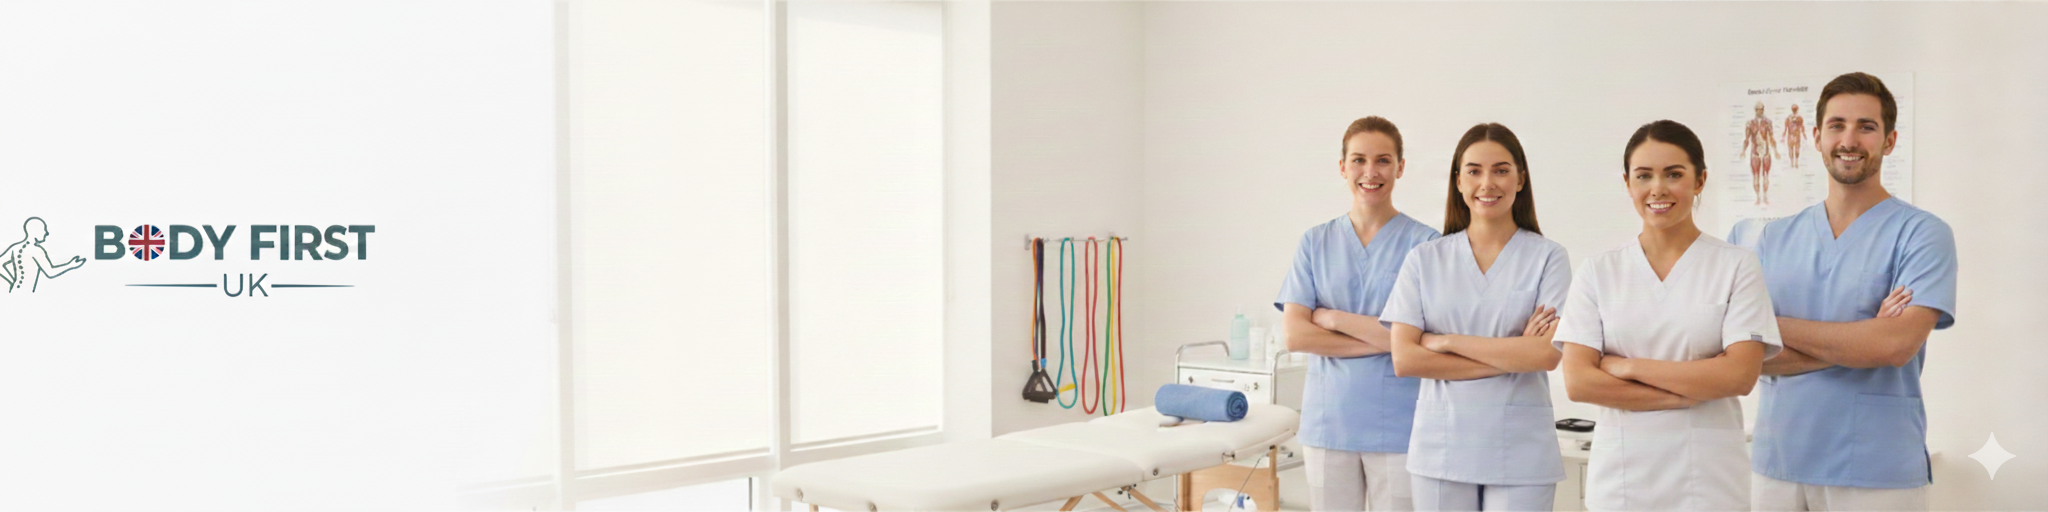
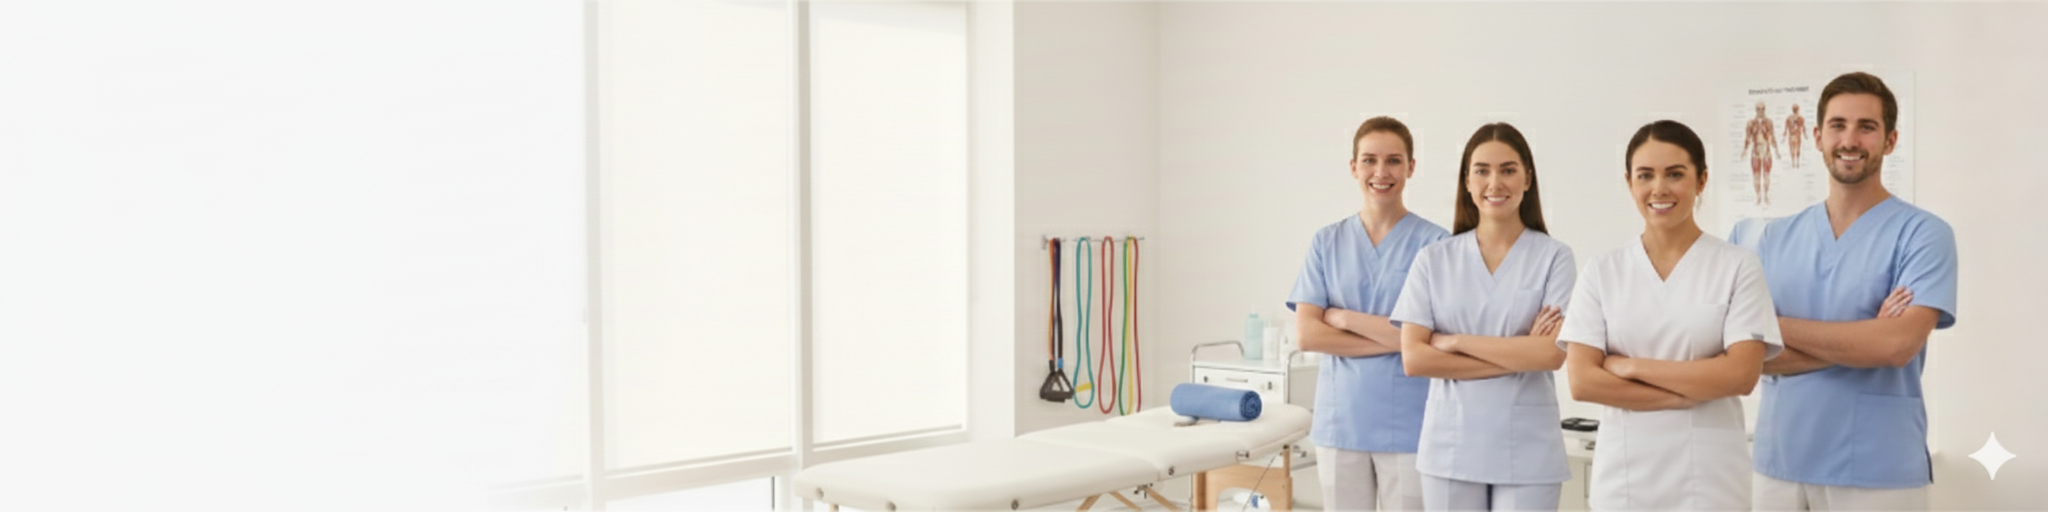
Add WhyUs page with detailed service offerings and commitment to patient care

diff --git a/src/pages/WhyUs.tsx b/src/pages/WhyUs.tsx
@@ -1,0 +1,121 @@
+import { Link } from 'react-router-dom';
+import { siteContent } from '../data/content';
+
+const WhyUs = () => {
+  return (
+    <div className="pt-20">
+      {/* Simple hero (matches About / Prices pages) */}
+      <section className="relative overflow-hidden bg-teal-900 py-16 lg:py-24">
+        <div className="absolute inset-0">
+          {/* Optional hero image — replace path if you have a specific image */}
+          <img
+            src="/images/Aboutus/hero.png"
+            alt="Why choose Body First UK"
+            className="w-full h-full object-cover"
+            loading="lazy"
+            onError={(e) => {
+              (e.currentTarget as HTMLImageElement).style.display = 'none';
+            }}
+          />
+
+          <div className="absolute inset-0 bg-black/35 bg-gradient-to-r from-teal-900/80 via-teal-900/70 to-transparent" />
+        </div>
+
+        <div className="container relative text-center">
+          <div className="max-w-3xl text-white mx-auto">
+            <h1 className="text-4xl lg:text-5xl font-bold mb-6">Why Choose Body First UK</h1>
+            <p className="text-xl text-teal-50">
+              We provide high-quality, evidence-based physiotherapy with compassionate, personalised care focused on helping you recover and get back to what matters.
+            </p>
+          </div>
+        </div>
+      </section>
+
+      <section className="section bg-white">
+        <div className="container">
+
+          <div className="grid md:grid-cols-2 lg:grid-cols-3 gap-8 mt-8">
+            <div className="text-center p-6 bg-white rounded-lg shadow-sm">
+              <div className="text-5xl mb-4">🏆</div>
+              <h3 className="text-xl font-bold mb-3 text-gray-900">Expert Team</h3>
+              <p className="text-gray-600">
+                All clinicians are HCPC and CSP registered physiotherapists with many years of clinical experience across musculoskeletal, sports and rehabilitation settings. We prioritise safety and clinical best practice.
+              </p>
+            </div>
+
+            <div className="text-center p-6 bg-white rounded-lg shadow-sm">
+              <div className="text-5xl mb-4">🎯</div>
+              <h3 className="text-xl font-bold mb-3 text-gray-900">Personalised Care</h3>
+              <p className="text-gray-600">
+                Every patient receives a thorough assessment and a tailored treatment plan that reflects their diagnosis, goals and lifestyle — not a generic checklist.
+              </p>
+            </div>
+
+            <div className="text-center p-6 bg-white rounded-lg shadow-sm">
+              <div className="text-5xl mb-4">⚡</div>
+              <h3 className="text-xl font-bold mb-3 text-gray-900">Advanced Techniques</h3>
+              <p className="text-gray-600">
+                We use evidence-based manual therapy, exercise prescription, dry needling and modern rehab equipment to speed recovery and improve performance.
+              </p>
+            </div>
+
+            <div className="text-center p-6 bg-white rounded-lg shadow-sm">
+              <div className="text-5xl mb-4">📍</div>
+              <h3 className="text-xl font-bold mb-3 text-gray-900">Central Location</h3>
+              <p className="text-gray-600">
+                Our London clinic is easy to reach with excellent transport links and local parking options — making appointments simple to attend.
+              </p>
+            </div>
+
+            <div className="text-center p-6 bg-white rounded-lg shadow-sm">
+              <div className="text-5xl mb-4">🕐</div>
+              <h3 className="text-xl font-bold mb-3 text-gray-900">Flexible Hours</h3>
+              <p className="text-gray-600">
+                We offer extended opening hours, including evenings and Sundays, to fit around work and family commitments.
+              </p>
+            </div>
+
+            <div className="text-center p-6 bg-white rounded-lg shadow-sm">
+              <div className="text-5xl mb-4">💷</div>
+              <h3 className="text-xl font-bold mb-3 text-gray-900">Transparent Pricing</h3>
+              <p className="text-gray-600">
+                Clear, upfront pricing with no hidden fees. We accept major insurance providers — check our Prices &amp; Insurance page for details.
+              </p>
+            </div>
+          </div>
+
+          <div className="mt-12">
+            <h2 className="text-2xl font-semibold text-gray-900 mb-3">Our Commitment to You</h2>
+            <p className="text-gray-700">
+              We focus on measurable outcomes, open communication and creating treatment plans that fit your life. Our team will explain options, expected recovery timelines and how to self-manage between sessions.
+            </p>
+
+            <div className="mt-6 bg-teal-50 ring-1 ring-teal-100 p-6 rounded-lg">
+              <h3 className="font-bold text-gray-900">Our Promise</h3>
+              <p className="text-gray-700 mt-2">
+                You will be treated with respect, receive evidence-based care, and leave each appointment with a clear plan. If you need help between visits, our team is available to support you.
+              </p>
+            </div>
+          </div>
+
+          <div className="mt-12 text-center">
+            <a
+              href="https://app.theclinicportal.com/?Email=info@bodyfirst.clinic#login"
+              target="_blank"
+              rel="noopener noreferrer"
+              className="inline-flex items-center justify-center rounded-lg bg-teal-600 hover:bg-teal-700 text-white px-6 py-3 text-lg font-semibold transition"
+            >
+              Book Your Appointment
+            </a>
+
+            <Link to="/contact" className="inline-flex items-center justify-center ml-4 rounded-lg border border-teal-600 text-teal-600 px-6 py-3 text-lg font-semibold transition">
+              Contact Us
+            </Link>
+          </div>
+        </div>
+      </section>
+    </div>
+  );
+};
+
+export default WhyUs;

diff --git a/src/components/Header.tsx b/src/components/Header.tsx
@@ -22,6 +22,7 @@ const Header = () => {
     { name: 'What We Treat', path: '/what-we-treat' },
     { name: 'Services', path: '/services' },
     { name: 'About Us', path: '/about' },
+    { name: 'Why Us', path: '/why-us' },
     { name: 'Prices & Insurance', path: '/prices' },
     { name: 'Contact', path: '/contact' },
   ];
@@ -153,6 +154,18 @@ const Header = () => {
               }`}
             >
               About Us
+            </Link>
+
+            {/* Why Us */}
+            <Link
+              to="/why-us"
+              className={`text-sm font-medium transition-colors ${
+                isActive('/why-us')
+                  ? 'text-teal-600'
+                  : 'text-gray-700 hover:text-teal-600'
+              }`}
+            >
+              Why Us
             </Link>
 
             {/* Prices */}

diff --git a/src/App.tsx b/src/App.tsx
@@ -15,6 +15,7 @@ import ServiceDetailPage from './pages/ServiceDetailPage';
 import About from './pages/About';
 import PricesInsurance from './pages/PricesInsurance';
 import Contact from './pages/Contact';
+import WhyUs from './pages/WhyUs';
 import BookPage from './components/BookPage'; 
 
 import './styles/globals.css';
@@ -40,6 +41,7 @@ function App() {
 
             {/* Static pages */}
             <Route path="/about" element={<About />} />
+            <Route path="/why-us" element={<WhyUs />} />
             <Route path="/prices" element={<PricesInsurance />} />
             <Route path="/contact" element={<Contact />} />
 

diff --git a/index.html b/index.html
@@ -2,7 +2,8 @@
 <html lang="en">
   <head>
     <meta charset="UTF-8" />
-    <link rel="icon" type="image/svg+xml" href="/vite.svg" />
+    <link rel="icon" type="image/png" href="/images/BrowserLogo.png" />
+    <link rel="apple-touch-icon" href="/images/BrowserLogo.png" />
     <meta name="viewport" content="width=device-width, initial-scale=1.0" />
     <title>bodyfirst-website</title>
   </head>
